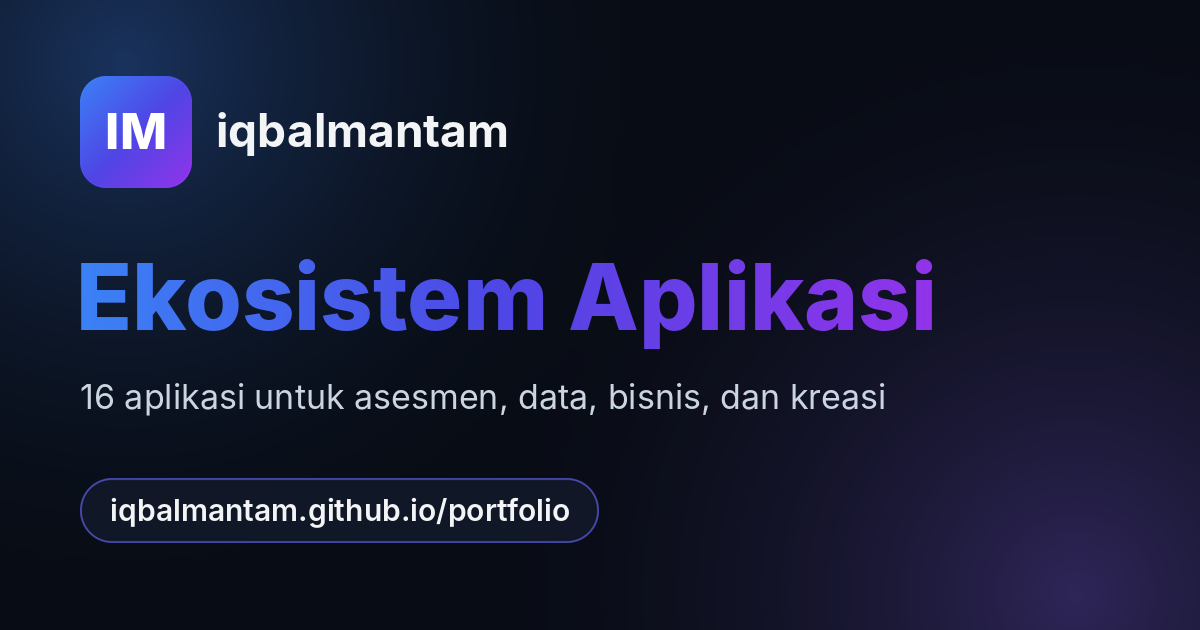
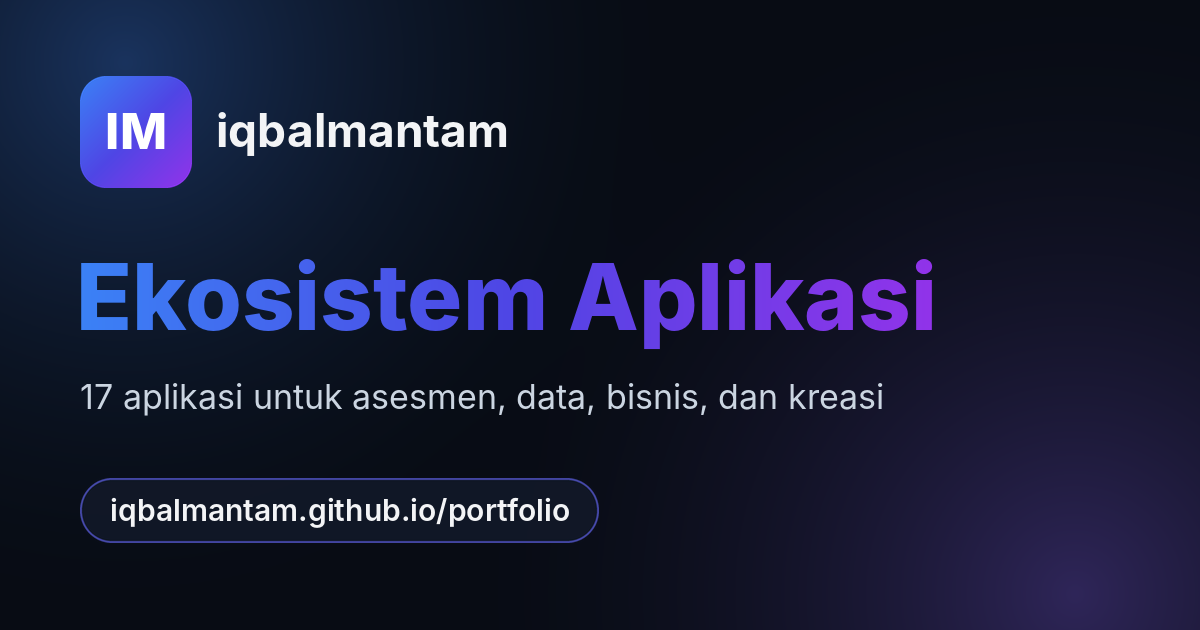
Tambah aplikasi Ghost Detector Pro (17 aplikasi)
Claude-Session: https://claude.ai/code/session_01ATKdQkcZuXQud338NXSGkM

Changed region(s): [[0.0617, 0.6032, 0.74, 0.6635]]

diff --git a/index.html b/index.html
@@ -4,7 +4,7 @@
     <meta charset="UTF-8">
     <meta name="viewport" content="width=device-width, initial-scale=1.0">
     <title>Iqbal Mantam — Applications Hub</title>
-    <meta name="description" content="Portfolio Iqbal Mantam: 16 aplikasi untuk asesmen psikometri, rekrutmen, analisis data, bisnis, dan tools kreatif.">
+    <meta name="description" content="Portfolio Iqbal Mantam: 17 aplikasi untuk asesmen psikometri, rekrutmen, analisis data, bisnis, dan tools kreatif.">
     <meta name="theme-color" content="#080C14">
     <meta name="color-scheme" content="dark">
     <link rel="canonical" href="https://iqbalmantam.github.io/portfolio/">
@@ -13,14 +13,14 @@
     <meta property="og:type" content="website">
     <meta property="og:locale" content="id_ID">
     <meta property="og:title" content="Iqbal Mantam — Applications Hub">
-    <meta property="og:description" content="Portfolio Iqbal Mantam: 16 aplikasi untuk asesmen psikometri, rekrutmen, analisis data, bisnis, dan tools kreatif.">
+    <meta property="og:description" content="Portfolio Iqbal Mantam: 17 aplikasi untuk asesmen psikometri, rekrutmen, analisis data, bisnis, dan tools kreatif.">
     <meta property="og:url" content="https://iqbalmantam.github.io/portfolio/">
     <meta property="og:image" content="https://iqbalmantam.github.io/portfolio/og-image.png">
     <meta property="og:image:width" content="1200">
     <meta property="og:image:height" content="630">
     <meta name="twitter:card" content="summary_large_image">
     <meta name="twitter:title" content="Iqbal Mantam — Applications Hub">
-    <meta name="twitter:description" content="Portfolio Iqbal Mantam: 16 aplikasi untuk asesmen psikometri, rekrutmen, analisis data, bisnis, dan tools kreatif.">
+    <meta name="twitter:description" content="Portfolio Iqbal Mantam: 17 aplikasi untuk asesmen psikometri, rekrutmen, analisis data, bisnis, dan tools kreatif.">
     <meta name="twitter:image" content="https://iqbalmantam.github.io/portfolio/og-image.png">
     <!-- Tailwind CSS CDN -->
     <script src="https://cdn.tailwindcss.com"></script>
@@ -146,6 +146,7 @@
                 <li><a class="text-indigo-300 underline" href="https://devils-mantam.streamlit.app/" rel="noopener noreferrer">Devil&#39;s Advocate</a></li>
                 <li><a class="text-indigo-300 underline" href="https://iqbalmantam.github.io/remi/" rel="noopener noreferrer">Kartu Remi</a></li>
                 <li><a class="text-indigo-300 underline" href="https://iqbalmantam.github.io/Ramalan/" rel="noopener noreferrer">Ramalan Pitutur</a></li>
+                <li><a class="text-indigo-300 underline" href="https://iqbalmantam.github.io/Ghost-hunter/" rel="noopener noreferrer">Ghost Detector Pro</a></li>
             </ul>
         </noscript>
 
@@ -450,6 +451,24 @@
                     "Numerologi serta psikologi lima watak",
                     "Opsional: bacaan dari foto wajah dan telapak tangan, hanya dengan izin pengguna",
                     "Cukup isi nama lengkap dan tanggal lahir, tandai jika lahir setelah magrib, lalu klik \"Baca diri saya\""
+                ]
+            },
+            { 
+                id: "17", 
+                title: "Ghost Detector Pro", 
+                category: "Bisnis & Kreatif", 
+                desc: "Pemantau anomali berbasis sensor ponsel: magnetometer, getaran, mikrofon, dan kamera dalam satu indeks 0-100.", 
+                url: "https://iqbalmantam.github.io/Ghost-hunter/", 
+                icon: "ghost",
+                status: "Production Ready",
+                techStack: ["Browser-based", "Sensor Ponsel", "Web Audio", "Ekspor Data"],
+                kegunaan: "Memantau perubahan lingkungan lewat sensor ponsel secara langsung sebagai hiburan dan eksperimen. Halamannya sendiri menegaskan bahwa tidak ada alat yang terbukti bisa mendeteksi hantu, sehingga anomali hampir selalu punya penyebab biasa.",
+                kelebihan: "Memakai sensor nyata perangkat, bukan simulasi, dan memadukan keempatnya menjadi satu indeks yang mudah dibaca. Gambar kamera tidak dikirim ke mana pun.",
+                kemampuan: [
+                    "Magnetometer (medan magnet dalam µT), akselerometer (getaran sekitar 17,5-20,5 Hz), mikrofon (pita suara 300-3400 Hz), dan deteksi perubahan area kamera",
+                    "Indeks anomali 0-100, kalibrasi ulang, dan pengaturan sensitivitas 0-10",
+                    "Mode malam kamera, log kejadian, tangkapan otomatis, dan ekspor data",
+                    "Magnetometer hanya berfungsi di Chrome Android; di iPhone sensor ini tidak tersedia"
                 ]
             }
         ];
